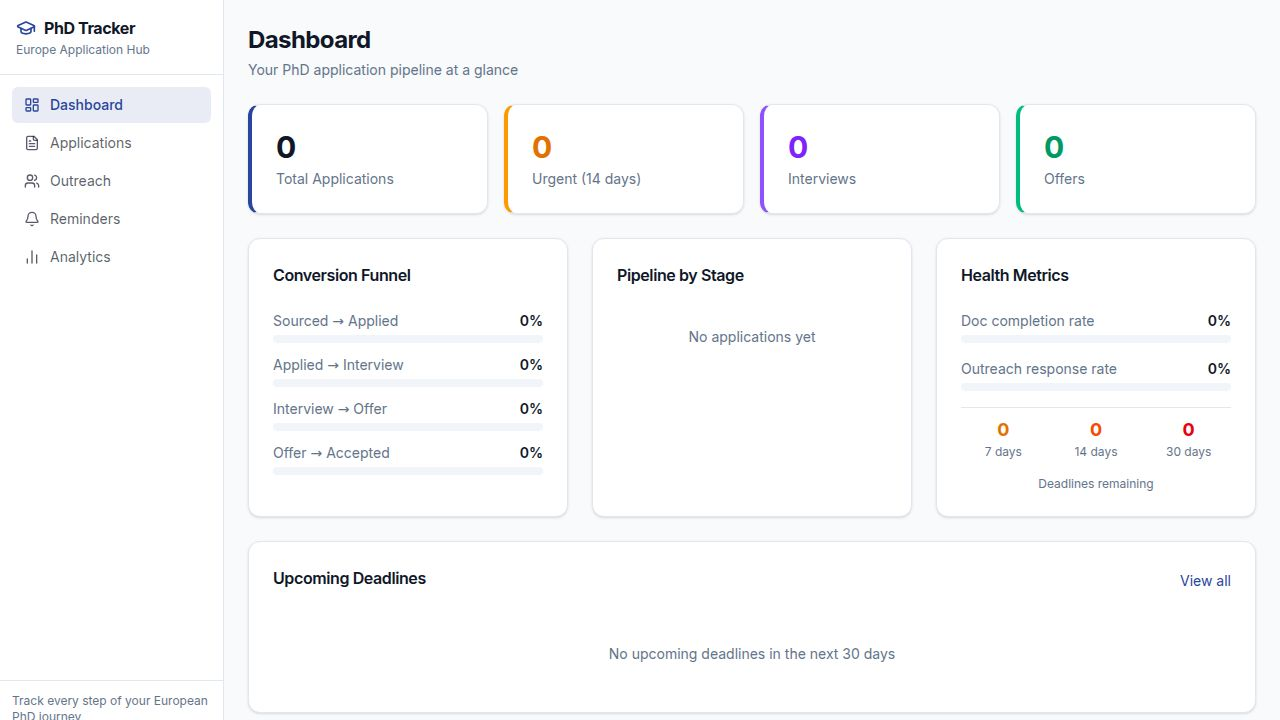
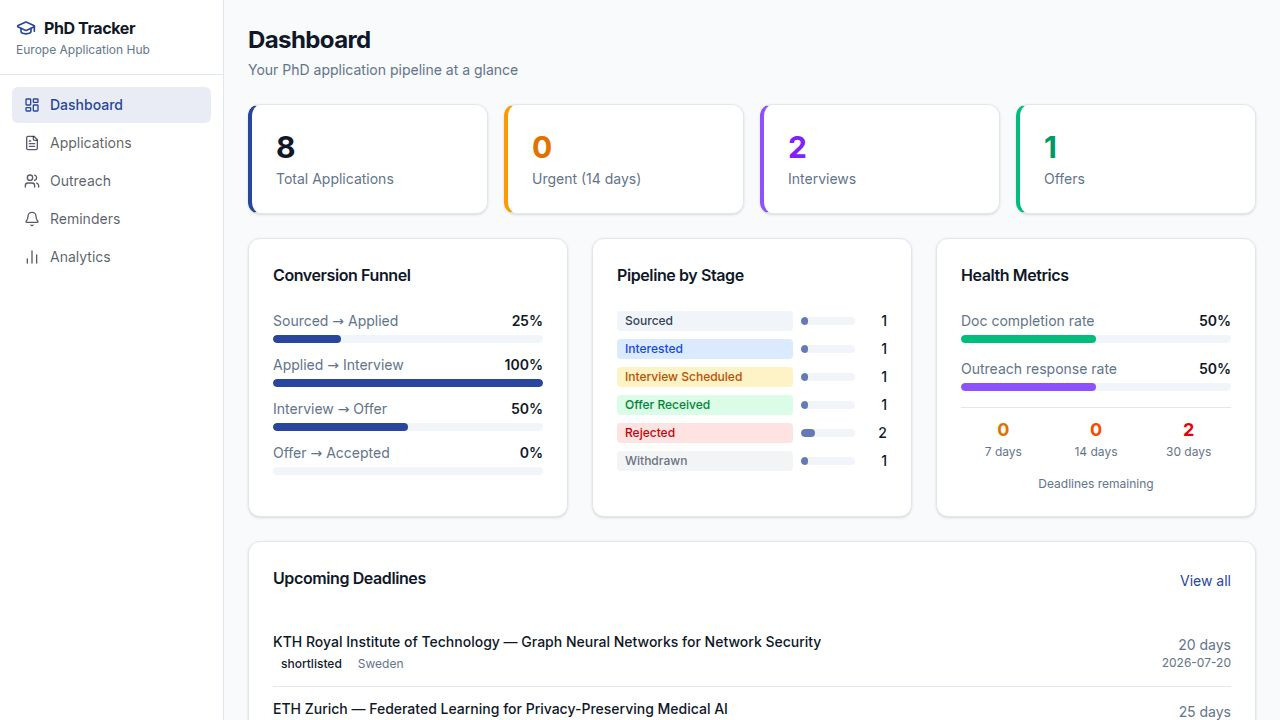
Update application pipeline stages and related analytics
Refactors application stage management across the API and frontend to reflect a simplified 7-stage pipeline (Sourced, Interested, Applied, Interview Scheduled, Offer Received, Rejected, Withdrawn), updating analytics, dropdowns, and charts accordingly.

Replit-Commit-Author: Agent
Replit-Commit-Session-Id: eda8bf66-85e8-4cc0-a120-cddba6ac70e4
Replit-Commit-Checkpoint-Type: full_checkpoint
Replit-Commit-Event-Id: 205ded7a-5710-4b10-bd9d-28120952595c
Replit-Commit-Screenshot-Url: https://storage.googleapis.com/screenshot-production-us-central1/f13b90ad-7ce6-4aeb-b9ab-ec4014cb000f/eda8bf66-85e8-4cc0-a120-cddba6ac70e4/YWJqM5k
Replit-Helium-Checkpoint-Created: true

diff --git a/artifacts/api-server/src/routes/analytics.ts b/artifacts/api-server/src/routes/analytics.ts
@@ -25,15 +25,13 @@ router.get("/analytics/summary", async (req, res): Promise<void> => {
   const total = applications.length;
   const sourced = total;
   const applied = applications.filter((a) =>
-    ["applied", "under_review", "interview_scheduled", "interview_completed", "offer_received", "accepted"].includes(a.stage)
+    ["applied", "interview_scheduled", "offer_received"].includes(a.stage)
   ).length;
   const interviewed = applications.filter((a) =>
-    ["interview_scheduled", "interview_completed", "offer_received", "accepted"].includes(a.stage)
+    ["interview_scheduled", "offer_received"].includes(a.stage)
   ).length;
-  const offered = applications.filter((a) =>
-    ["offer_received", "accepted"].includes(a.stage)
-  ).length;
-  const accepted = applications.filter((a) => a.stage === "accepted").length;
+  const offered = applications.filter((a) => a.stage === "offer_received").length;
+  const accepted = 0;
   const rejected = applications.filter((a) => a.stage === "rejected").length;
 
   const todayStr = today();
@@ -42,7 +40,7 @@ router.get("/analytics/summary", async (req, res): Promise<void> => {
   const in30 = addDays(30);
 
   const activeApps = applications.filter(
-    (a) => !["rejected", "withdrawn", "accepted"].includes(a.stage)
+    (a) => !["rejected", "withdrawn"].includes(a.stage)
   );
 
   const deadlineIn7 = activeApps.filter(
@@ -80,7 +78,7 @@ router.get("/analytics/summary", async (req, res): Promise<void> => {
     sourcedToApplied: sourced > 0 ? applied / sourced : 0,
     appliedToInterview: applied > 0 ? interviewed / applied : 0,
     interviewToOffer: interviewed > 0 ? offered / interviewed : 0,
-    offerToAccepted: offered > 0 ? accepted / offered : 0,
+    offerToAccepted: 0,
   };
 
   res.json({
@@ -95,7 +93,7 @@ router.get("/analytics/summary", async (req, res): Promise<void> => {
     documentCompletionRate,
     interviewCount: interviewed,
     offerCount: offered,
-    acceptedCount: accepted,
+    acceptedCount: 0,
     rejectedCount: rejected,
   });
 });
@@ -110,13 +108,13 @@ router.get("/analytics/by-country", async (req, res): Promise<void> => {
       map[app.country] = { count: 0, applied: 0, interviews: 0, offers: 0 };
     }
     map[app.country].count++;
-    if (["applied", "under_review", "interview_scheduled", "interview_completed", "offer_received", "accepted"].includes(app.stage)) {
+    if (["applied", "interview_scheduled", "offer_received"].includes(app.stage)) {
       map[app.country].applied++;
     }
-    if (["interview_scheduled", "interview_completed", "offer_received", "accepted"].includes(app.stage)) {
+    if (["interview_scheduled", "offer_received"].includes(app.stage)) {
       map[app.country].interviews++;
     }
-    if (["offer_received", "accepted"].includes(app.stage)) {
+    if (app.stage === "offer_received") {
       map[app.country].offers++;
     }
   }
@@ -132,9 +130,9 @@ router.get("/analytics/by-stage", async (req, res): Promise<void> => {
   const applications = await db.select().from(applicationsTable);
 
   const stageOrder = [
-    "sourced", "interested", "shortlisted", "applied", "under_review",
-    "interview_scheduled", "interview_completed", "offer_received",
-    "rejected", "withdrawn", "accepted",
+    "sourced", "interested", "applied",
+    "interview_scheduled", "offer_received",
+    "rejected", "withdrawn",
   ];
 
   const map: Record<string, number> = {};
@@ -161,7 +159,7 @@ router.get("/analytics/upcoming-deadlines", async (req, res): Promise<void> => {
         a.deadline &&
         a.deadline >= todayStr &&
         a.deadline <= in30 &&
-        !["rejected", "withdrawn", "accepted"].includes(a.stage)
+        !["rejected", "withdrawn"].includes(a.stage)
     )
     .sort((a, b) => {
       if (!a.deadline) return 1;

diff --git a/artifacts/phd-tracker/src/pages/applications.tsx b/artifacts/phd-tracker/src/pages/applications.tsx
@@ -19,30 +19,29 @@ import { Textarea } from "@/components/ui/textarea";
 import { Plus, ExternalLink, Trash2, AlertTriangle } from "lucide-react";
 
 const STAGES = [
-  "sourced", "interested", "shortlisted", "applied", "under_review",
-  "interview_scheduled", "interview_completed", "offer_received",
-  "rejected", "withdrawn", "accepted",
+  "sourced", "interested", "applied",
+  "interview_scheduled", "offer_received",
+  "rejected", "withdrawn",
 ];
 
 const STAGE_LABELS: Record<string, string> = {
-  sourced: "Sourced", interested: "Interested", shortlisted: "Shortlisted",
-  applied: "Applied", under_review: "Under Review", interview_scheduled: "Interview Scheduled",
-  interview_completed: "Interview Completed", offer_received: "Offer Received",
-  rejected: "Rejected", withdrawn: "Withdrawn", accepted: "Accepted",
+  sourced: "Sourced",
+  interested: "Interested",
+  applied: "Applied",
+  interview_scheduled: "Interview Scheduled",
+  offer_received: "Offer Received",
+  rejected: "Rejected",
+  withdrawn: "Withdrawn",
 };
 
 const STAGE_COLORS: Record<string, string> = {
   sourced: "bg-slate-100 text-slate-700 border-slate-200",
   interested: "bg-blue-100 text-blue-700 border-blue-200",
-  shortlisted: "bg-indigo-100 text-indigo-700 border-indigo-200",
   applied: "bg-violet-100 text-violet-700 border-violet-200",
-  under_review: "bg-purple-100 text-purple-700 border-purple-200",
   interview_scheduled: "bg-amber-100 text-amber-700 border-amber-200",
-  interview_completed: "bg-orange-100 text-orange-700 border-orange-200",
   offer_received: "bg-green-100 text-green-700 border-green-200",
   rejected: "bg-red-100 text-red-600 border-red-200",
   withdrawn: "bg-gray-100 text-gray-500 border-gray-200",
-  accepted: "bg-emerald-100 text-emerald-800 border-emerald-200",
 };
 
 const EUROPEAN_COUNTRIES = [

diff --git a/artifacts/phd-tracker/src/pages/application-detail.tsx b/artifacts/phd-tracker/src/pages/application-detail.tsx
@@ -28,23 +28,20 @@ import { Tabs, TabsList, TabsTrigger, TabsContent } from "@/components/ui/tabs";
 import { ArrowLeft, CheckSquare, Square, ExternalLink, Edit, Plus, AlertTriangle } from "lucide-react";
 
 const STAGES = [
-  "sourced", "interested", "shortlisted", "applied", "under_review",
-  "interview_scheduled", "interview_completed", "offer_received",
-  "rejected", "withdrawn", "accepted",
+  "sourced", "interested", "applied",
+  "interview_scheduled", "offer_received",
+  "rejected", "withdrawn",
 ];
 const STAGE_LABELS: Record<string, string> = {
-  sourced: "Sourced", interested: "Interested", shortlisted: "Shortlisted",
-  applied: "Applied", under_review: "Under Review", interview_scheduled: "Interview Scheduled",
-  interview_completed: "Interview Completed", offer_received: "Offer Received",
-  rejected: "Rejected", withdrawn: "Withdrawn", accepted: "Accepted",
+  sourced: "Sourced", interested: "Interested",
+  applied: "Applied", interview_scheduled: "Interview Scheduled",
+  offer_received: "Offer Received", rejected: "Rejected", withdrawn: "Withdrawn",
 };
 const STAGE_COLORS: Record<string, string> = {
   sourced: "bg-slate-100 text-slate-700", interested: "bg-blue-100 text-blue-700",
-  shortlisted: "bg-indigo-100 text-indigo-700", applied: "bg-violet-100 text-violet-700",
-  under_review: "bg-purple-100 text-purple-700", interview_scheduled: "bg-amber-100 text-amber-700",
-  interview_completed: "bg-orange-100 text-orange-700", offer_received: "bg-green-100 text-green-700",
+  applied: "bg-violet-100 text-violet-700", interview_scheduled: "bg-amber-100 text-amber-700",
+  offer_received: "bg-green-100 text-green-700",
   rejected: "bg-red-100 text-red-600", withdrawn: "bg-gray-100 text-gray-500",
-  accepted: "bg-emerald-100 text-emerald-800",
 };
 
 const DEFAULT_DOCS = [

diff --git a/artifacts/phd-tracker/src/pages/analytics.tsx b/artifacts/phd-tracker/src/pages/analytics.tsx
@@ -8,17 +8,16 @@ import { Card, CardContent, CardHeader, CardTitle } from "@/components/ui/card";
 import { Skeleton } from "@/components/ui/skeleton";
 
 const STAGE_COLORS: Record<string, string> = {
-  sourced: "#94a3b8", interested: "#60a5fa", shortlisted: "#818cf8",
-  applied: "#a78bfa", under_review: "#c084fc", interview_scheduled: "#f59e0b",
-  interview_completed: "#f97316", offer_received: "#22c55e",
-  rejected: "#ef4444", withdrawn: "#9ca3af", accepted: "#10b981",
+  sourced: "#94a3b8", interested: "#60a5fa",
+  applied: "#a78bfa", interview_scheduled: "#f59e0b",
+  offer_received: "#22c55e", rejected: "#ef4444", withdrawn: "#9ca3af",
 };
 
 const STAGE_LABELS: Record<string, string> = {
-  sourced: "Sourced", interested: "Interested", shortlisted: "Shortlisted",
-  applied: "Applied", under_review: "Under Review", interview_scheduled: "Interview Scheduled",
-  interview_completed: "Interview Completed", offer_received: "Offer Received",
-  rejected: "Rejected", withdrawn: "Withdrawn", accepted: "Accepted",
+  sourced: "Sourced", interested: "Interested",
+  applied: "Applied", interview_scheduled: "Interview Scheduled",
+  offer_received: "Offer Received",
+  rejected: "Rejected", withdrawn: "Withdrawn",
 };
 
 function pct(n: number) { return `${Math.round(n * 100)}%`; }

diff --git a/artifacts/phd-tracker/src/pages/dashboard.tsx b/artifacts/phd-tracker/src/pages/dashboard.tsx
@@ -7,29 +7,21 @@ import { Skeleton } from "@/components/ui/skeleton";
 const STAGE_COLORS: Record<string, string> = {
   sourced: "bg-slate-100 text-slate-700",
   interested: "bg-blue-100 text-blue-700",
-  shortlisted: "bg-indigo-100 text-indigo-700",
   applied: "bg-violet-100 text-violet-700",
-  under_review: "bg-purple-100 text-purple-700",
   interview_scheduled: "bg-amber-100 text-amber-700",
-  interview_completed: "bg-orange-100 text-orange-700",
   offer_received: "bg-green-100 text-green-700",
   rejected: "bg-red-100 text-red-700",
   withdrawn: "bg-gray-100 text-gray-500",
-  accepted: "bg-emerald-100 text-emerald-800",
 };
 
 const STAGE_LABELS: Record<string, string> = {
   sourced: "Sourced",
   interested: "Interested",
-  shortlisted: "Shortlisted",
   applied: "Applied",
-  under_review: "Under Review",
   interview_scheduled: "Interview Scheduled",
-  interview_completed: "Interview Completed",
   offer_received: "Offer Received",
   rejected: "Rejected",
   withdrawn: "Withdrawn",
-  accepted: "Accepted",
 };
 
 function daysUntil(dateStr: string): number {

diff --git a/artifacts/api-server/src/routes/applications.ts b/artifacts/api-server/src/routes/applications.ts
@@ -47,7 +47,8 @@ router.get("/applications", async (req, res): Promise<void> => {
     ...app,
     isUrgent:
       app.isUrgent ||
-      (app.deadline != null && app.deadline >= today && app.deadline <= in14Days),
+      (!["rejected", "withdrawn"].includes(app.stage) &&
+        app.deadline != null && app.deadline >= today && app.deadline <= in14Days),
   }));
 
   res.json(result);